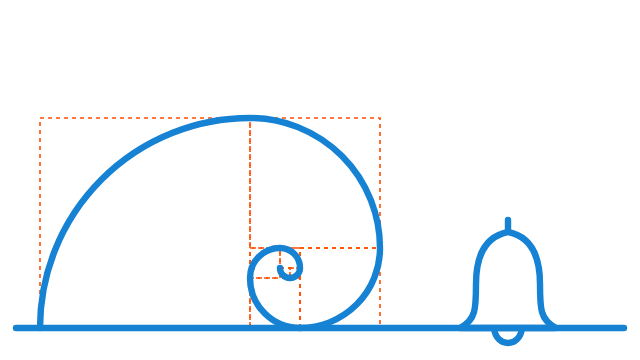
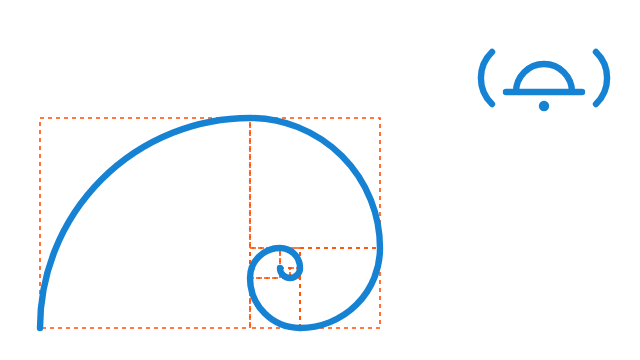
Remove the sea line; draw an abstract bell in the top right corner
Tested: just reuse, just docs-stale

Claude-Session: https://claude.ai/code/session_01P3z8R5AS99GKLhbYtDhLH3

Changed region(s): [[0.0, 0.6111, 1.0, 0.9778], [0.7188, 0.1222, 0.9688, 0.3056]]

diff --git a/docs/drawings/wave.py b/docs/drawings/wave.py
@@ -1,11 +1,11 @@
 #!/usr/bin/env python3
-"""Write docs/drawings/wave.svg: a Fibonacci-spiral wave and a bell.
+"""Write docs/drawings/wave.svg: a Fibonacci-spiral wave and an abstract bell.
 
 Usage: python3 docs/drawings/wave.py > docs/drawings/wave.svg
        python3 docs/drawings/wave.py squares   # also draw the Fibonacci squares
 """
 import sys
-s=5; fib=[1,1,2,3,5,8,13,21]; radii=[s*f for f in reversed(fib)]  # 84..4, outside in
+s=5; fib=[1,1,2,3,5,8,13,21]; radii=[s*f for f in reversed(fib)]  # 105..5, outside in
 x0,y0=20,164
 right=lambda h:(-h[1],h[0])
 P=(x0,y0); h=(0,-1); arcs=[]; squares=[]
@@ -15,20 +15,20 @@ for r in radii:
     xs=sorted([P[0],E[0]]); ys=sorted([P[1],E[1]]); squares.append((xs[0],ys[0],r))
     P=E; h=rv
 spiral=f"M{x0} {y0} "+" ".join(arcs)
-bx=254  # bell centre x on the sea line
-bell=(f"M{bx-24} {y0} C {bx-16} {y0-4}, {bx-16} {y0-10}, {bx-16} {y0-22} C {bx-16} {y0-38}, {bx-10} {y0-46}, {bx} {y0-48} "
-      f"C {bx+10} {y0-46}, {bx+16} {y0-38}, {bx+16} {y0-22} C {bx+16} {y0-10}, {bx+16} {y0-4}, {bx+24} {y0} Z "
-      f"M{bx} {y0-48} L {bx} {y0-54} M{bx-7} {y0} C {bx-6} {y0+10}, {bx+6} {y0+10}, {bx+7} {y0}")
-sea=f"M8 {y0} L 312 {y0}"
+# An abstract bell in the top right corner: a dome, a rim, a clapper dot and two sound arcs.
+bx,by=272,46  # centre of the rim
+bell=(f"M{bx-14} {by} A 14 14 0 0 1 {bx+14} {by} M{bx-19} {by} L {bx+19} {by} "
+      f"M{bx-26} {by-20} A 18 18 0 0 0 {bx-26} {by+6} M{bx+26} {by-20} A 18 18 0 0 1 {bx+26} {by+6}")
+clapper=f'<circle cx="{bx}" cy="{by+7}" r="2.6" fill="#1682D4" stroke="none"/>'
 debug=len(sys.argv)>1
 sq="".join(f'<rect x="{x}" y="{y}" width="{r}" height="{r}" fill="none" stroke="#FF4F00" stroke-width="0.8" stroke-dasharray="2 2"/>' for x,y,r in squares) if debug else ""
-label="A Fibonacci wave that rings a bell: an original line drawing"
+label="A Fibonacci wave and a bell: an original line drawing"
 print(f'''<svg xmlns="http://www.w3.org/2000/svg" viewBox="0 0 320 180" width="320" height="180" role="img" aria-label="{label}">
   <title>{label}</title>
   <desc>The wave is a Fibonacci spiral: eight quarter-circle arcs with radii 5 x (21, 13, 8, 5, 3, 2, 1, 1).</desc>{sq}
   <g fill="none" stroke="#1682D4" stroke-width="3.2" stroke-linecap="round" stroke-linejoin="round">
     <path d="{spiral}"/>
-    <path d="{sea}"/>
     <path d="{bell}"/>
+    {clapper}
   </g>
 </svg>''')

diff --git a/README.md b/README.md
@@ -1,6 +1,6 @@
 <div align="center">
 
-<img alt="A Fibonacci wave that rings a bell: an original line drawing" src="docs/drawings/wave.svg" width="320"/>
+<img alt="A Fibonacci wave and a bell: an original line drawing" src="docs/drawings/wave.svg" width="320"/>
 
 # ialerts
 
